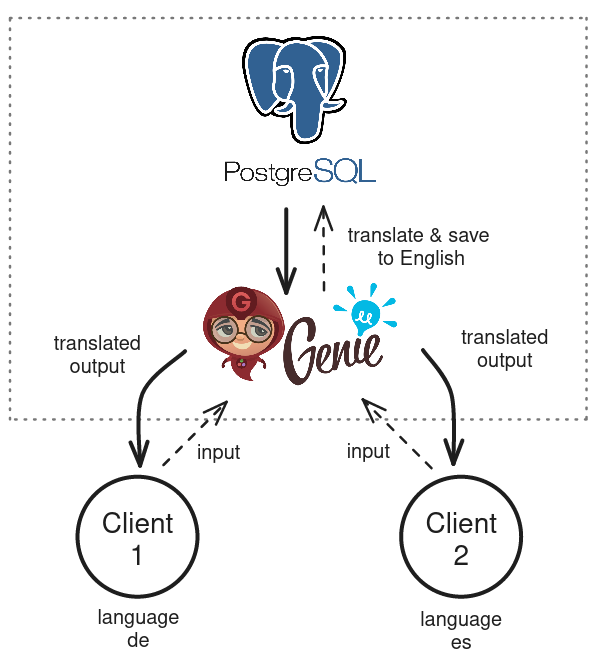
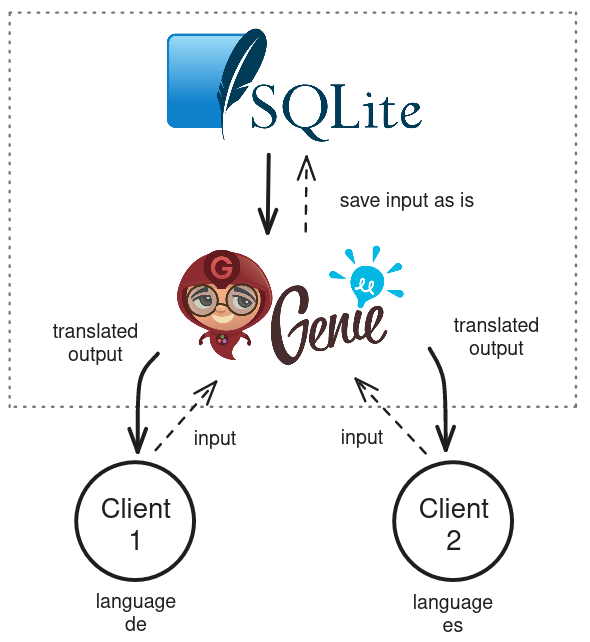
Add GET endpoint for API which returns all messages as JSON

diff --git a/README.md b/README.md
@@ -9,8 +9,7 @@ Users can choose the language to which they want the entire chat to be translate
 
 ![architecture](img/julia-translator-chat-architecture.png)
 
-Users of a chat may want to communicate in their respective native languages. Their input is saved, translated to english as a transatory step and then saved
-to the PostgreSQL database.
+Users of a chat may want to communicate in their respective native languages. Their input is saved into a SQLite database with their own language to provide the best translation accuracy.
 
 The output is created by the application translating the english text back to the selected language of the user. User 1 will have their chat
 completely in German, while User 2 will have it in Spanish.

diff --git a/help.md b/help.md
@@ -91,3 +91,29 @@ Test db:
 ```julia
 SearchLight.query("SELECT * FROM messages")
 ```
+
+## Starting the services
+
+To start an app after closing, type the following in the root folder of the app in the shell:
+
+```sh
+bin/repl
+```
+
+This will open the Julia REPL. To just start the server, do
+
+```sh
+bin/server
+```
+
+After that, in the REPL type
+
+```julia
+up()
+```
+
+To connect to the database again, just type the following in the Julia REPL in the root folder of the app:
+
+```julia
+SearchLight.Configuration.load() |> SearchLight.connect
+```
